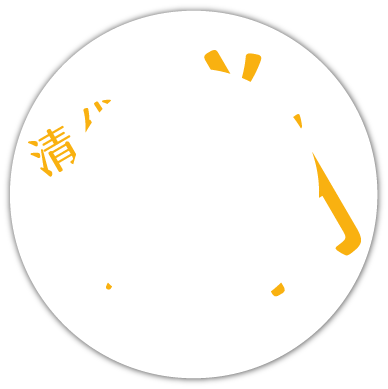
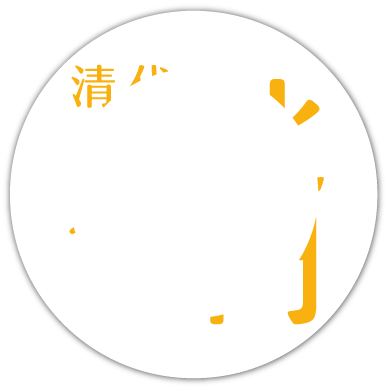
rotate finish

diff --git a/hw2/hw2.js b/hw2/hw2.js
@@ -1,105 +1,109 @@
 $(document).ready(function(){
-  
-    var imageBeingRotated = false ;
-    var mouseStartAngle = false ; //旋轉開始前鼠標相對於圖片中心的角度
-    var imageStartAngle = false ; //旋轉開始前圖片的旋轉角度
+	var imageBeingRotated = false;  
+	var mouseStartAngle = false;  //在旋轉前鼠標和圖片中心的相對位置
+	var imageStartAngle = false;  //在旋轉前圖片的旋轉角度
+	
+	$(initCircles);
+	
+});
 
-    $( initPhotos );
-})
 
-function initPhotos() {
-
-    //控制放開滑鼠右鍵時停止轉動
-    $(document).mouseup( stopRotate );
-    $(".burn").each( function(index){
-        // 替圖片設定隨機的位子跟角度
-        var angle= Math.floor( Math.random() * 360 );
-        $(this).css( 'transform' , 'rotate(' + angle + 'deg)');
-        $(this).css( '-moz-transform' , 'rotate(0' + angle + 'deg)' );
-        $(this).css( '-webkit-transform', 'rotate(' + angle + 'deg)' );
-        $(this).css( '-o-transform', 'rotate(' + angle + 'deg)' );
-        $(this).data( 'currentRotate', angle * Math.PI/180 ); //弧度=pi*角度/180
-
-        //讓圖片旋轉
-        $(this).mousedown( startRotate );
-    })    
-}
+function initCircles(){
+    //控制放開滑鼠右鍵時將停止轉動
+    $(document).mouseup(stopRotate);
+    //處理每個圖片旋轉時的狀態
+	$(".burn").each(	function(index){
+	//隨機擺放每個圖片的角度
+	
+		var angle = Math.floor( Math.random() * 360  );
+		
+		$(this).css( 'transform', 'rotate(' + angle + 'deg)' );   
+		$(this).css( '-moz-transform', 'rotate(' + angle + 'deg)' );   
+		$(this).css( '-webkit-transform', 'rotate(' + angle + 'deg)' );
+		$(this).css( '-o-transform', 'rotate(' + angle + 'deg)' );
+		$(this).data('currentRotation', angle * Math.PI / 180 );//弧度=pi*角度/180
+		
+		//讓圖片開始旋轉
+		$(this).mousedown( startRotate );
+	
+	});
+};
 
 function startRotate( e ) {
 
  
-    // Track the image that we're going to rotate
-    imageBeingRotated = this;
+  // 指定要旋轉的圖片
+  imageBeingRotated = this;
+
+  // 在旋轉前儲存鼠標相對圖片中心的角度
+  var imageCenter = getImageCenter( imageBeingRotated );
+  var mouseStartXFromCenter = e.pageX - imageCenter[0];
+  var mouseStartYFromCenter = e.pageY - imageCenter[1];
+  mouseStartAngle = Math.atan2( mouseStartYFromCenter, mouseStartXFromCenter );
+
+  // 儲存圖片當前的旋轉角度
+  imageStartAngle = $(imageBeingRotated).data('currentRotation');
+
+  // 設定當鼠標移動時就旋轉圖像
+  $(document).mousemove( rotateImage );
+	// 阻止其他會影響到此事件的事件發生
+  return false;
+}
+
+function stopRotate( e ) {
+    //確認是否是正在旋轉的狀態，如果否就return
+  if ( !imageBeingRotated ) return;
+
+  // 解除mousemove的功能
+  $(document).unbind( 'mousemove' );
+
+  // 取消選取要旋轉的圖片
+  imageBeingRotated = false;
+  return false;
+}
+function rotateImage( e ) {
+
+  // 確認是否是正在旋轉的狀態，如果否就return
+  if ( !imageBeingRotated ) return;
+
+  // 在旋轉後儲存鼠標相對圖片中心的角度
+  var imageCenter = getImageCenter( imageBeingRotated );
+  var mouseXFromCenter = e.pageX - imageCenter[0];
+  var mouseYFromCenter = e.pageY - imageCenter[1];
+  var mouseAngle = Math.atan2( mouseYFromCenter, mouseXFromCenter );
+
+  // 計算圖片要旋轉到幾度的位置
+  var rotateAngle = mouseAngle - mouseStartAngle + imageStartAngle;
+
+  // 旋轉圖片到新的角度並儲存新的角度
+  $(imageBeingRotated).css('transform','rotate(' + rotateAngle + 'rad)');
+  $(imageBeingRotated).css('-moz-transform','rotate(' + rotateAngle + 'rad)');
+  $(imageBeingRotated).css('-webkit-transform','rotate(' + rotateAngle + 'rad)');
+  $(imageBeingRotated).css('-o-transform','rotate(' + rotateAngle + 'rad)');
+  $(imageBeingRotated).data('currentRotation', rotateAngle );
   
-    // Store the angle of the mouse at the start of the rotation
-    var imageCenter = getImageCenter( imageBeingRotated );
-    var mouseStartXFromCenter = e.pageX - imageCenter[0];
-    var mouseStartYFromCenter = e.pageY - imageCenter[1];
-    mouseStartAngle = Math.atan2( mouseStartYFromCenter, mouseStartXFromCenter );
-  
-    // Store the current rotation angle of the image at the start of the rotation
-    imageStartAngle = $(imageBeingRotated).data('currentRotation');
-  
-    // Set up an event handler to rotate the image as the mouse is moved
-    $(document).mousemove( rotateImage );
-      // stop bubbling
-    return false;
-  }
-  // stop rotating while mouse is up
-  function stopRotate( e ) {
-   
-    if ( !imageBeingRotated ) return;
-  
-    // Remove the event handler that tracked mouse movements during the rotation
-    $(document).unbind( 'mousemove' );
-  
-    // Cancel the image rotation by setting imageBeingRotated back to false.
-    imageBeingRotated = false;
-    return false;
-  }
-  function rotateImage( e ) {
-  
-    // Exit if there is no image being rotated
-    if ( !imageBeingRotated ) return;
-  
-    // Calculate the new mouse angle relative to the image center
-    var imageCenter = getImageCenter( imageBeingRotated );
-    var mouseXFromCenter = e.pageX - imageCenter[0];
-    var mouseYFromCenter = e.pageY - imageCenter[1];
-    var mouseAngle = Math.atan2( mouseYFromCenter, mouseXFromCenter );
-  
-    // Calculate the new rotation angle for the image
-    var rotateAngle = mouseAngle - mouseStartAngle + imageStartAngle;
-  
-    // Rotate the image to the new angle, and store the new angle
-    $(imageBeingRotated).css('transform','rotate(' + rotateAngle + 'rad)');
-    $(imageBeingRotated).css('-moz-transform','rotate(' + rotateAngle + 'rad)');
-    $(imageBeingRotated).css('-webkit-transform','rotate(' + rotateAngle + 'rad)');
-    $(imageBeingRotated).css('-o-transform','rotate(' + rotateAngle + 'rad)');
-    $(imageBeingRotated).data('currentRotation', rotateAngle );
-    
-    return false;
-  }
-  function getImageCenter( image ) {
-  
-    // Rotate the image to 0 radians
-    $(image).css('transform','rotate(0rad)');
-    $(image).css('-moz-transform','rotate(0rad)');
-    $(image).css('-webkit-transform','rotate(0rad)');
-    $(image).css('-o-transform','rotate(0rad)');
-  
-    // Measure the image center
-    var imageOffset = $(image).offset();
-    var imageCenterX = imageOffset.left + $(image).width() / 2;
-    var imageCenterY = imageOffset.top + $(image).height() / 2;
-  
-    // Rotate the image back to its previous angle
-    var currentRotation = $(image).data('currentRotation');
-    $(imageBeingRotated).css('transform','rotate(' + currentRotation + 'rad)');
-    $(imageBeingRotated).css('-moz-transform','rotate(' + currentRotation + 'rad)');
-    $(imageBeingRotated).css('-webkit-transform','rotate(' + currentRotation + 'rad)');
-    $(imageBeingRotated).css('-o-transform','rotate(' + currentRotation + 'rad)');
-  
-    // Return the calculated center coordinates
-    return Array( imageCenterX, imageCenterY );
-  }
+  return false;
+}
+function getImageCenter( image ) {
+
+  // 先旋轉圖片成正的
+  $(image).css('transform','rotate(0rad)');
+  $(image).css('-moz-transform','rotate(0rad)');
+  $(image).css('-webkit-transform','rotate(0rad)');
+  $(image).css('-o-transform','rotate(0rad)');
+
+  // 計算圖片中心
+  var imageOffset = $(image).offset(); //offset()可以得到圖片左上方角角的座標
+  var imageCenterX = imageOffset.left + $(image).width() / 2;
+  var imageCenterY = imageOffset.top + $(image).height() / 2;
+
+  // 旋轉圖片到原本的角度
+  var currentRotation = $(image).data('currentRotation');
+  $(imageBeingRotated).css('transform','rotate(' + currentRotation + 'rad)');
+  $(imageBeingRotated).css('-moz-transform','rotate(' + currentRotation + 'rad)');
+  $(imageBeingRotated).css('-webkit-transform','rotate(' + currentRotation + 'rad)');
+  $(imageBeingRotated).css('-o-transform','rotate(' + currentRotation + 'rad)');
+
+  // Return 圖片中的的座標
+  return Array( imageCenterX, imageCenterY );
+}
